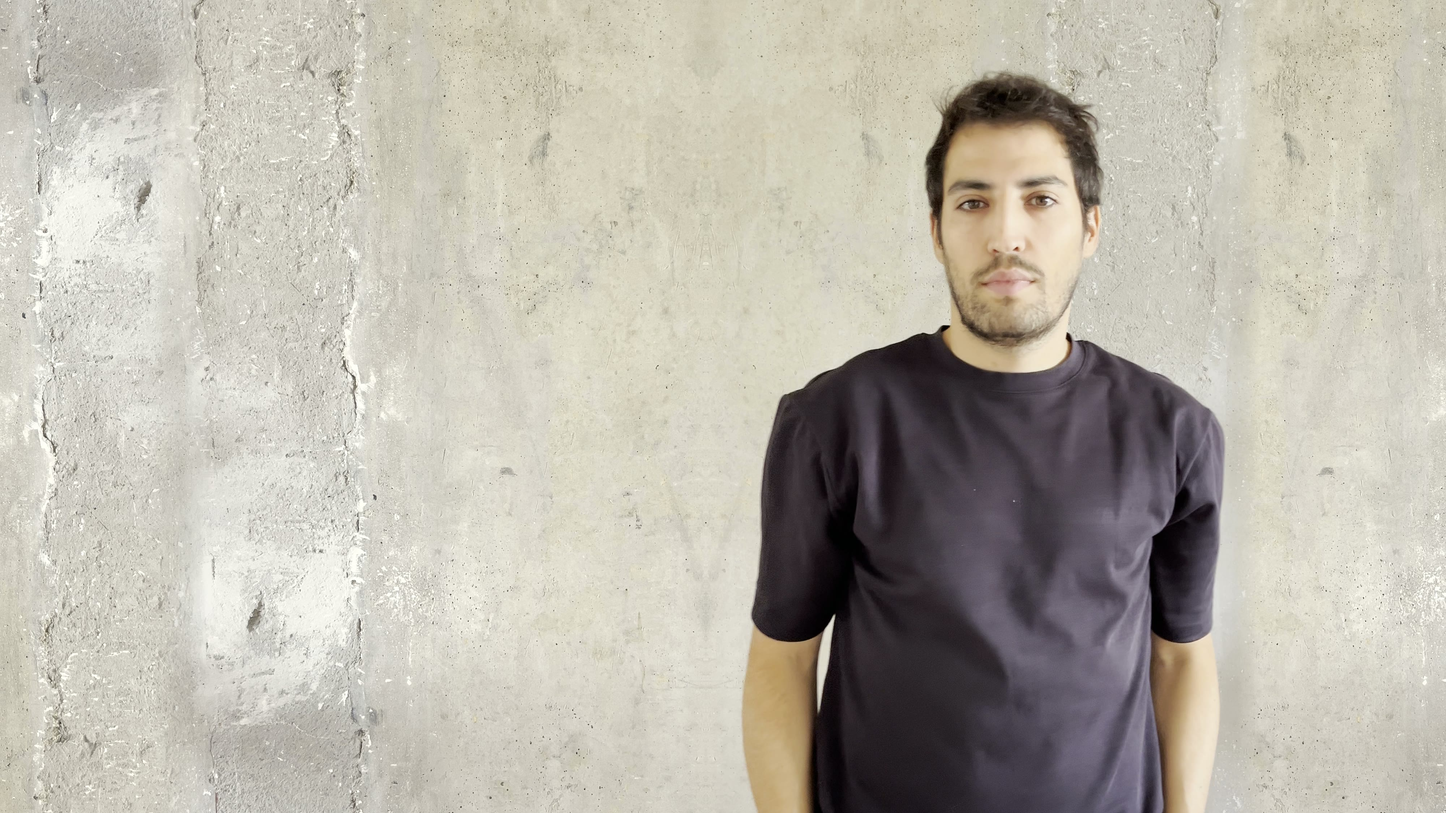
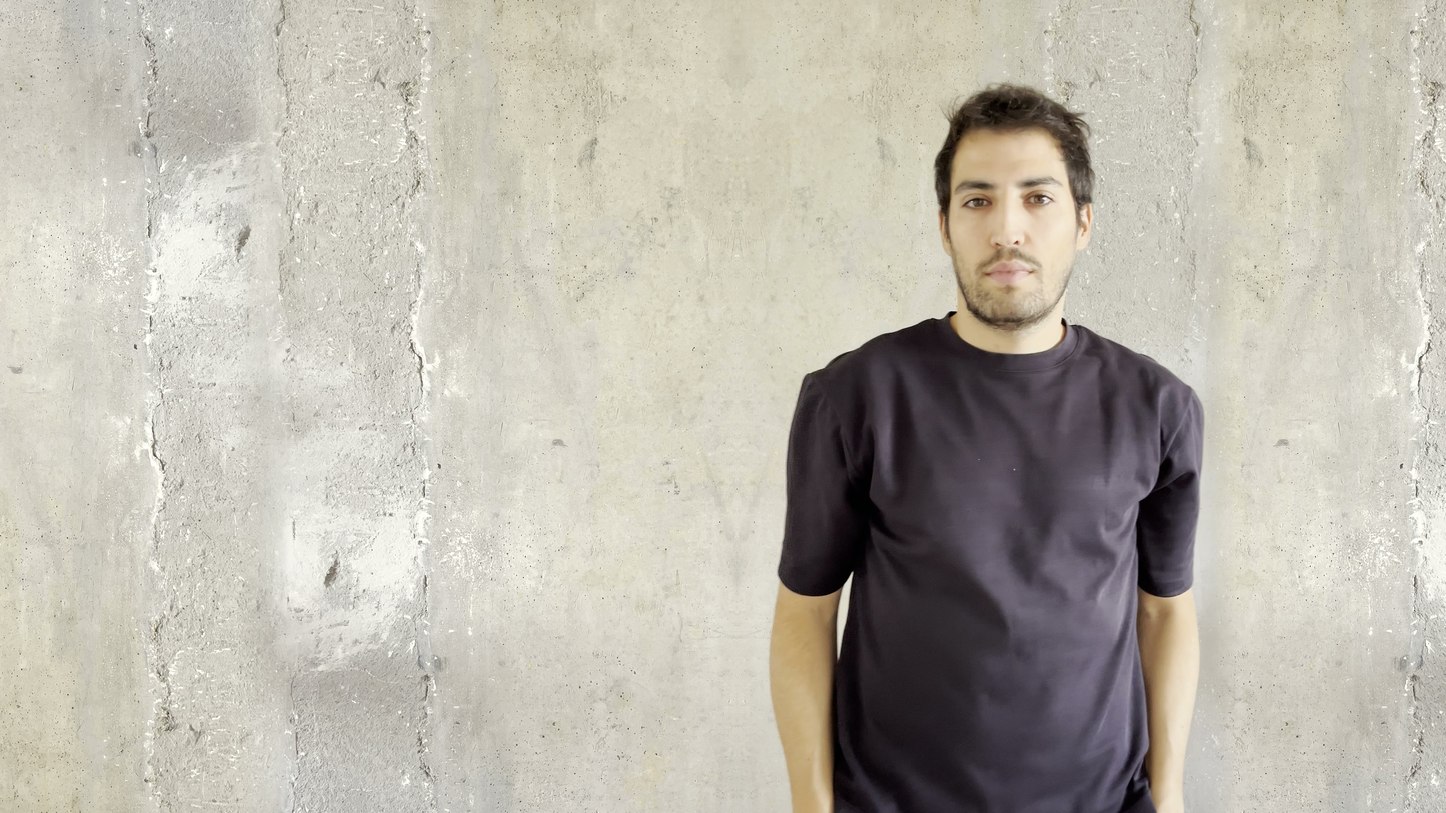
Hero: less zoom, header over the wall, nav without books
- Wider crop (~10% less zoom), natural colour unchanged
- Homepage header overlays the hero so the wall shows behind it; dark
  mode adds a top band for nav contrast
- Phone photo is a square crop that runs under the header
- Nav: work, contact

diff --git a/components/Header.tsx b/components/Header.tsx
@@ -2,13 +2,20 @@ import Link from "next/link";
 
 const nav = [
   { href: "/#work", label: "work" },
-  { href: "/#books", label: "books" },
   { href: "/#contact", label: "contact" },
 ];
 
-export function Header() {
+/**
+ * `overlay`: laid over the homepage hero so the concrete wall shows behind it
+ * (darker nav text for contrast on the wall).
+ */
+export function Header({ overlay = false }: { overlay?: boolean }) {
   return (
-    <header className="container-page flex flex-wrap items-center justify-between gap-x-8 py-4">
+    <header
+      className={`container-page flex flex-wrap items-center justify-between gap-x-8 py-4 ${
+        overlay ? "absolute inset-x-0 top-0 z-20" : ""
+      }`}
+    >
       <Link href="/" className="inline-flex min-h-11 items-center font-mono text-sm tracking-tight">
         martin calo
       </Link>
@@ -18,7 +25,7 @@ export function Header() {
             <li key={item.href}>
               <a
                 href={item.href}
-                className="inline-flex min-h-11 min-w-11 items-center justify-center text-label hover:text-ink"
+                className={`inline-flex min-h-11 min-w-11 items-center justify-center hover:text-ink ${overlay ? "text-ink-muted" : "text-label"}`}
               >
                 {item.label}
               </a>

diff --git a/components/Hero.tsx b/components/Hero.tsx
@@ -29,7 +29,7 @@ export function Hero() {
   });
 
   return (
-    <section className="relative isolate flex min-h-[calc(100svh-4.75rem)] flex-col overflow-hidden">
+    <section className="relative isolate flex min-h-svh flex-col overflow-hidden">
       <div
         className={s.photo}
         style={{ "--hero-focus": heroImage.focus } as CSSProperties}
@@ -50,7 +50,7 @@ export function Hero() {
         <div aria-hidden="true" className={s.gradient} />
       </div>
 
-      <div className="relative container-page grid flex-1 content-center pt-6 pb-16 md:py-16">
+      <div className="relative container-page grid flex-1 content-center pt-6 pb-16 md:pt-28 md:pb-16">
         <div className="min-[1200px]:w-[46%]">
           {/* "Full-Stack Software" stays on one line; the last word goes below. */}
           <h1 className="text-display">

diff --git a/components/Hero.module.css b/components/Hero.module.css
@@ -2,13 +2,15 @@
    fading into the page. */
 .photo {
   position: relative;
-  aspect-ratio: 4 / 3;
+  aspect-ratio: 1 / 1;
 }
 
 .gradient {
   position: absolute;
   inset: 0;
-  background: linear-gradient(to bottom, transparent 55%, var(--bg) 100%);
+  background:
+    linear-gradient(to bottom, color-mix(in oklab, var(--bg) var(--hero-top-wash), transparent) 0, transparent 7rem),
+    linear-gradient(to bottom, transparent 55%, var(--bg) 100%);
 }
 
 /* Phones: the crop is already framed on the face. */
@@ -44,6 +46,7 @@
 
   .gradient {
     background:
+      linear-gradient(to bottom, color-mix(in oklab, var(--bg) var(--hero-top-wash), transparent) 0, transparent 9rem),
       linear-gradient(to bottom, transparent 75%, var(--bg) 100%),
       linear-gradient(
         to right,

diff --git a/app/(site)/layout.tsx b/app/(site)/layout.tsx
@@ -1,10 +1,10 @@
 import { Header } from "@/components/Header";
 
-// Homepage: site header (wordmark + in-page nav) above the content.
+// Homepage: the site header sits over the hero, so the wall shows behind it.
 export default function SiteLayout({ children }: LayoutProps<"/">) {
   return (
     <>
-      <Header />
+      <Header overlay />
       <main id="main" tabIndex={-1} className="outline-none">
         {children}
       </main>

diff --git a/app/globals.css b/app/globals.css
@@ -25,6 +25,8 @@
   --hero-wash: 22%;
   --hero-wash-solid: 36%;
   --hero-wash-end: 50%;
+  /* Behind the header laid over the hero: none in light mode, a dark band in dark mode. */
+  --hero-top-wash: 0%;
 
   /* Focus ring colour; stage sections override it with --stage-accent. */
   --focus: var(--ink);
@@ -42,6 +44,7 @@
     --hero-wash: 88%;
     --hero-wash-solid: 56%;
     --hero-wash-end: 70%;
+    --hero-top-wash: 85%;
   }
 }
 

diff --git a/CLAUDE.md b/CLAUDE.md
@@ -82,7 +82,7 @@ public/
 
 ## Homepage sections (in order)
 
-1. **Header:** "martin calo" wordmark (mono) left; nav right: work, books, contact (in-page anchors).
+1. **Header:** "martin calo" wordmark (mono) left; nav right: work, contact (in-page anchors). On the homepage it is laid over the hero, so the wall shows behind it (dark mode adds a dark band at the top for contrast).
 2. **Hero** (fills the first screen below the header). ≥1200px: the concrete wall fills the whole hero in natural colour, Martin about 70% across with wall on both sides (`public/hero.jpg`, 4000×2250: frame 2766 (46.1 s) of `Personal Picture.MOV`, chosen by Martin, head to waist; the wall extended with the clip's empty-wall frames, colour-matched — mirrored on the left, unused wall on the right). The headline sits on the wall over a light page-colour wash (tokens `--hero-wash*`: 22% to 36%→50% in light, 88% to 48%→66% in dark) and the hero fades into the page at the bottom. 768–1199px: the wide image in a 16:9 box above the text. Phones: `public/hero-mobile.jpg` (1600×1200 head-and-shoulders crop of the same frame) above the text. One `<picture>` via `getImageProps`. Save JPEGs as standard 4:2:0. Text: h1 = the role (must match LinkedIn); tagline "Building reliable systems." (not a heading); subtitle; no eyebrow, no contact links. Concrete stays in the hero only. A landscape reshoot with a slight smile would still improve it.
 3. **Experience sections** (dark "stage" background, reverse chronological). Each is a video section (see "Video sections" below): label in mono capitals without numbers (`NOW · METRIFY · BERLIN`), title, 3 short paragraphs (context, what I did, outcome), stack tags in mono, and a "Read the full story →" link to `/work/[slug]`. Text alternates sides on desktop (left, right, left).
    - **Metrify, now:** digitalizing the smart meter market. Video: `Meter 3.mp4` (1080p, no watermark), first 20 s at 2× (`SPEED=2 scripts/encode-video.sh meter "Meter 3.mp4" 0-20` → 10 s) so the counter visibly rolls; shown as the whole 16:9 frame on desktop (`frame: "whole"`), and also in the story header. The earlier `Meter.mp4` / `Meter 1.mp4` are watermarked iStock previews and must never be published.
